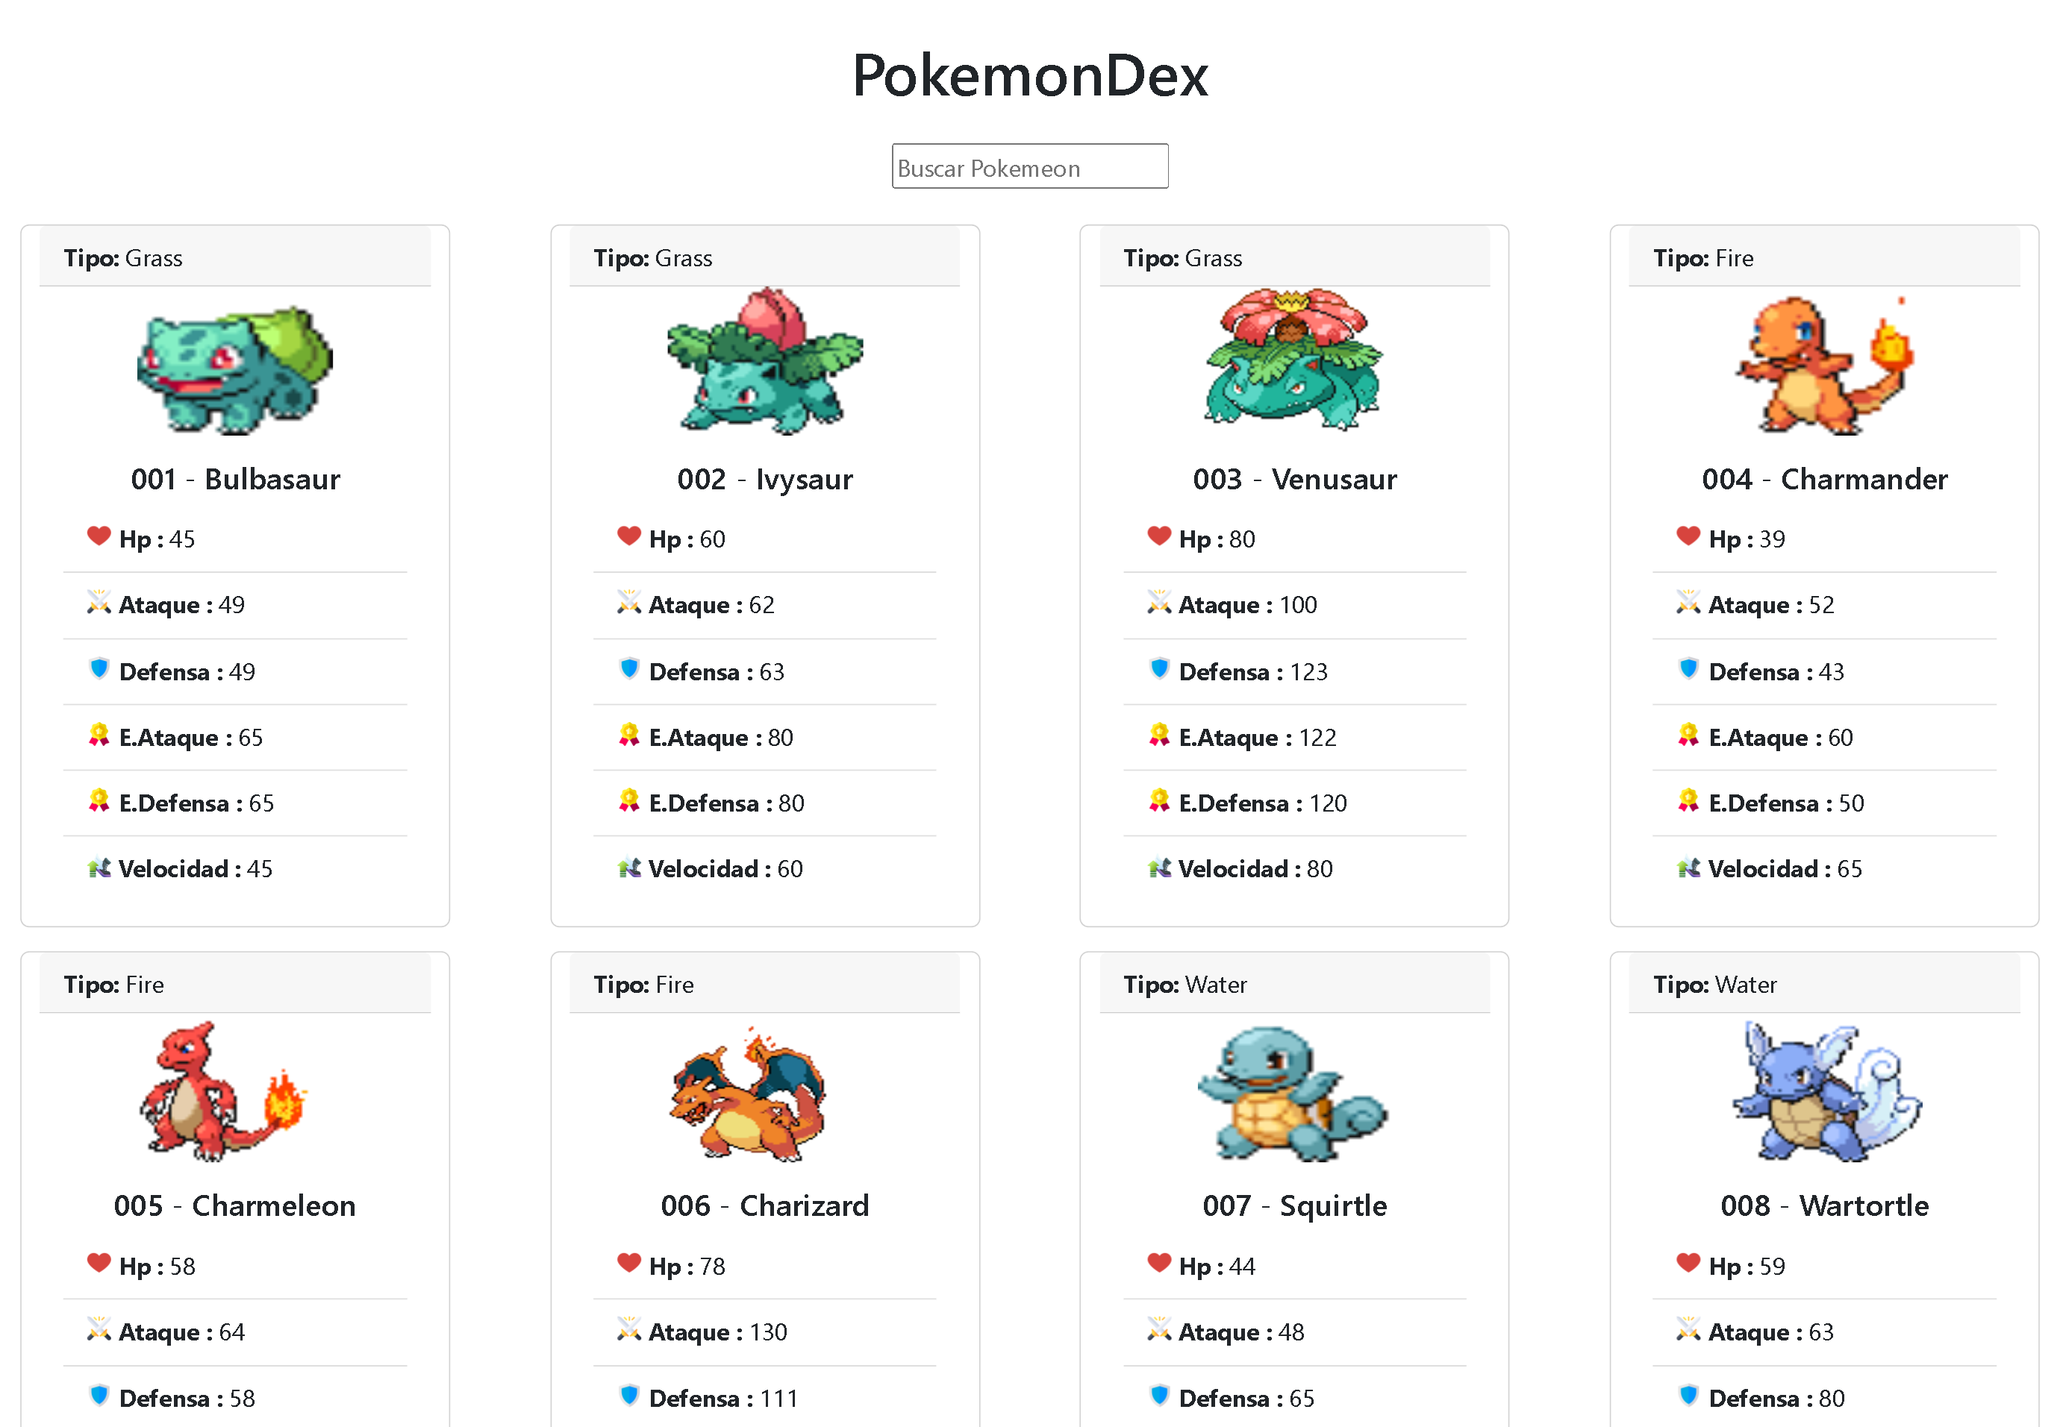
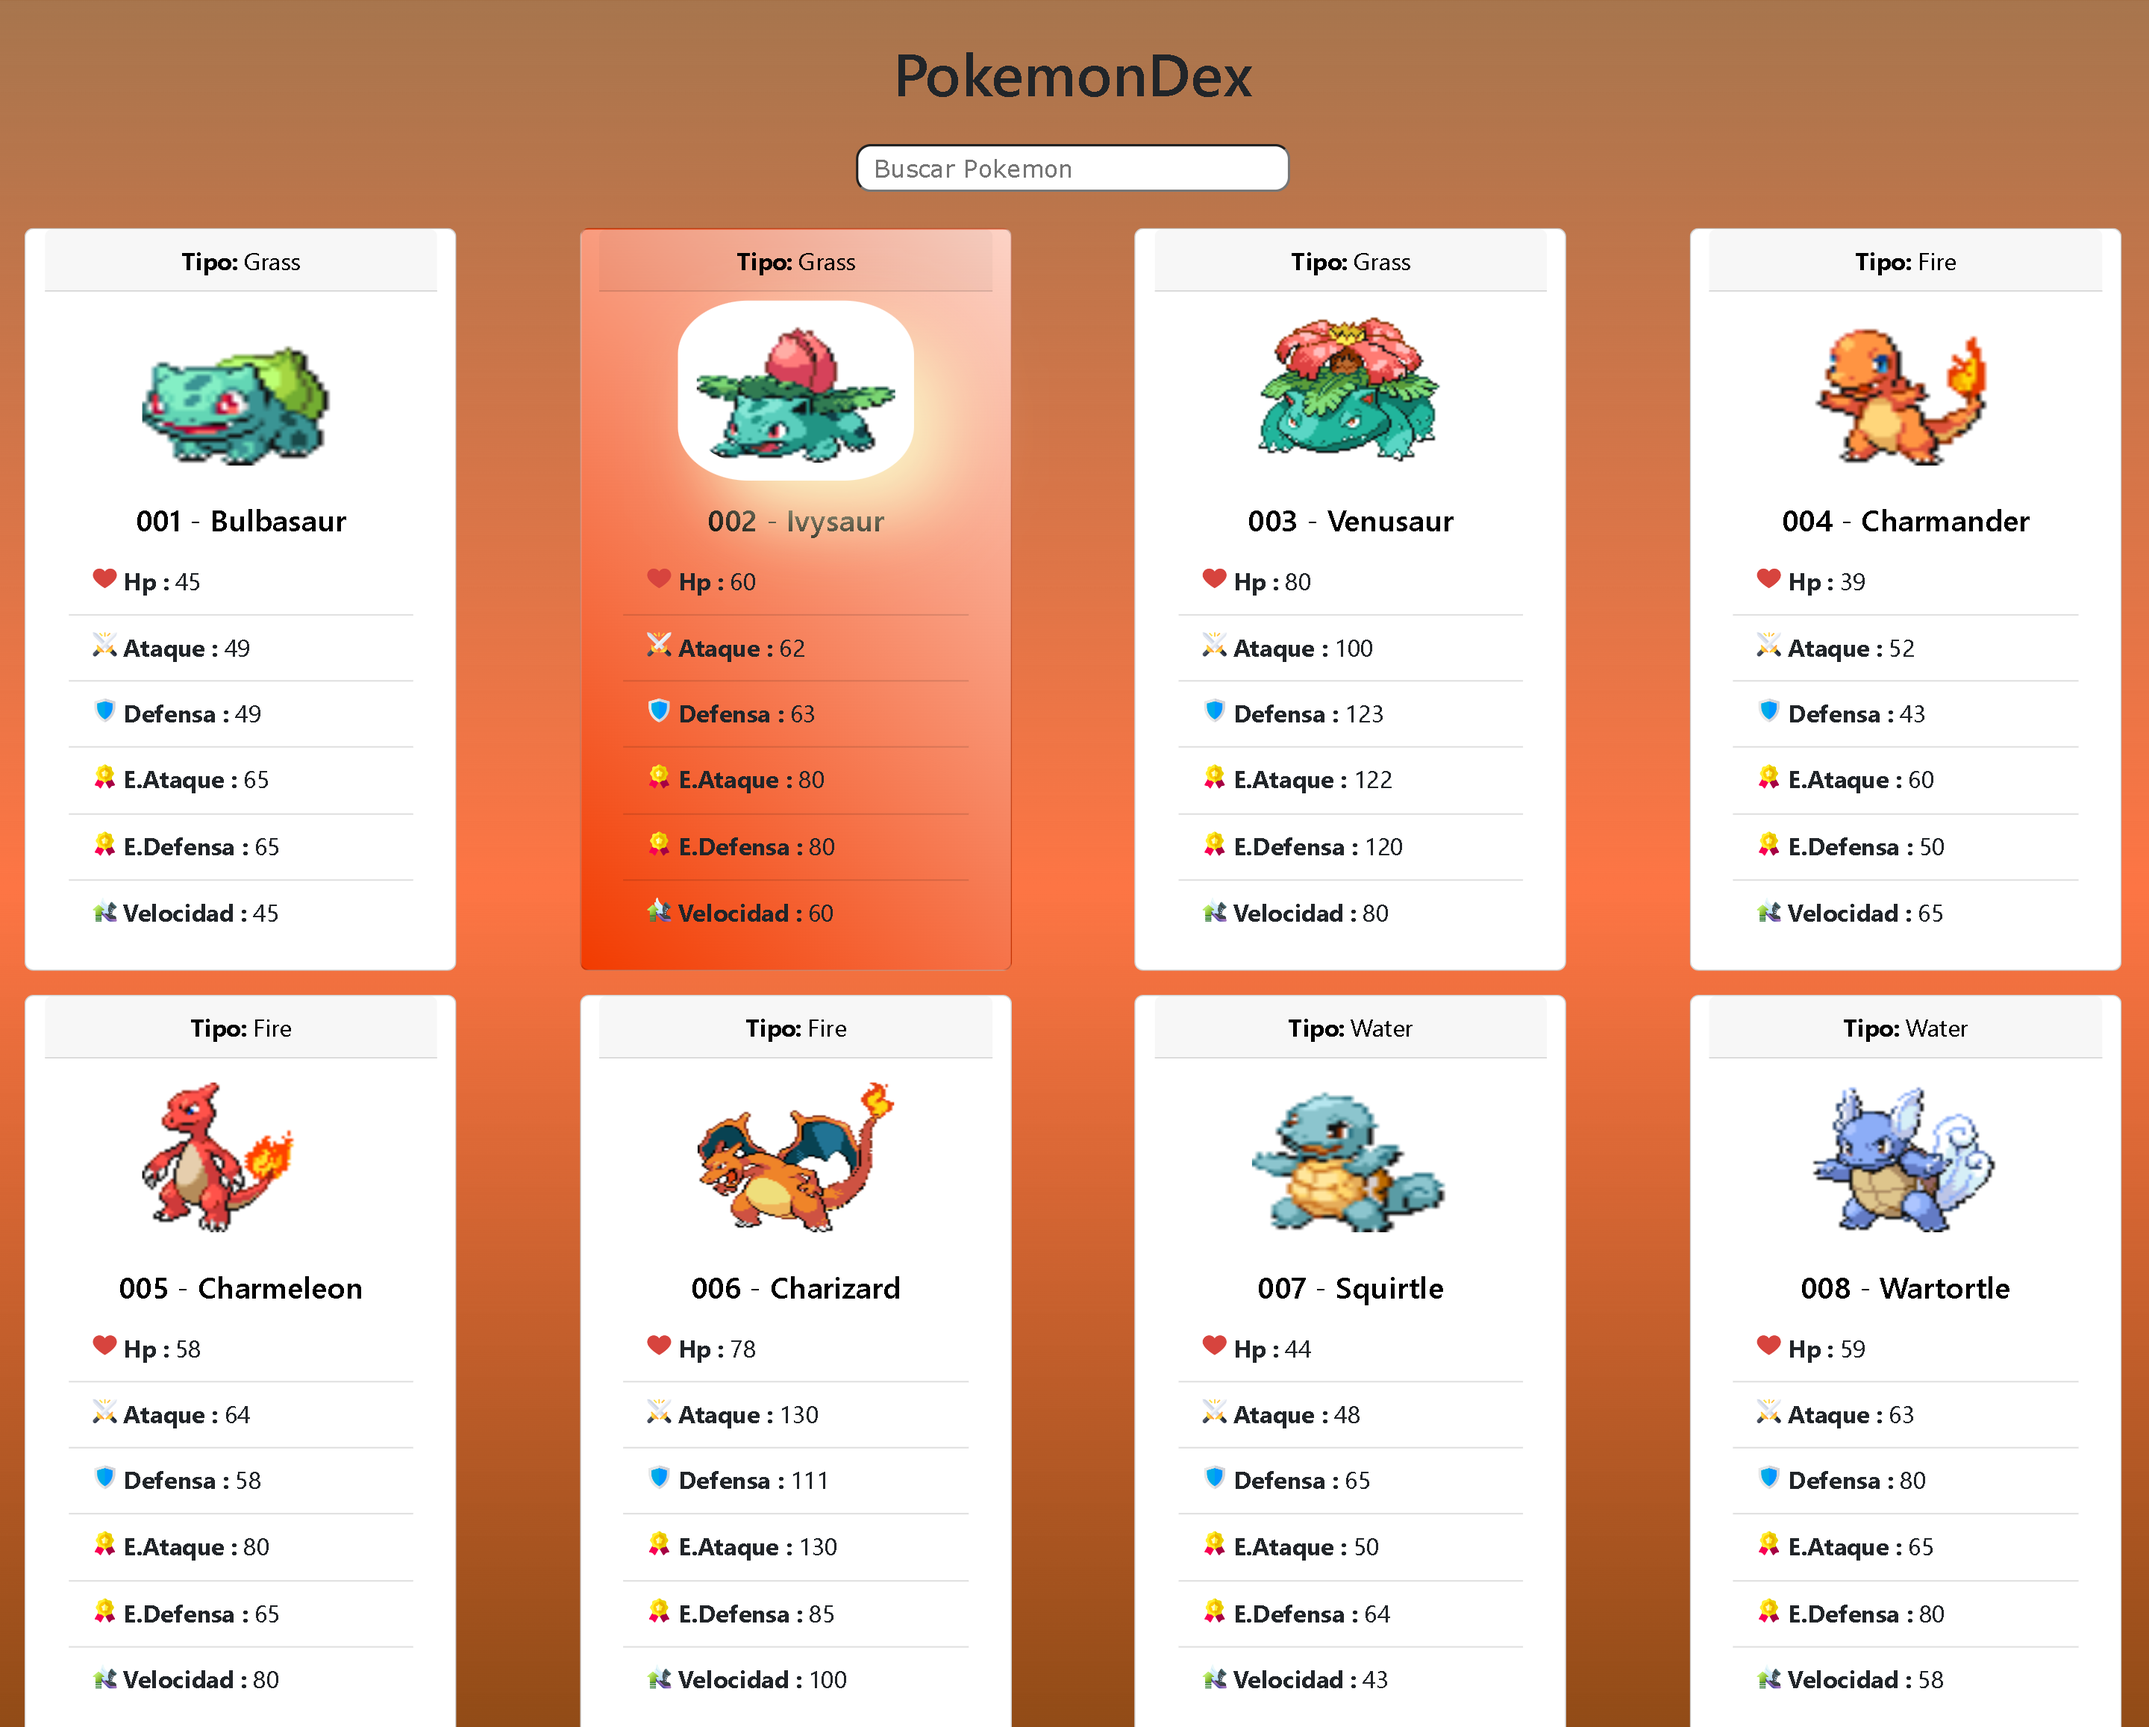
[ADD] Styles added

diff --git a/src/pages/Listado.tsx b/src/pages/Listado.tsx
@@ -6,6 +6,7 @@ import ListGroup from 'react-bootstrap/ListGroup';
 import Figure from 'react-bootstrap/Figure';
 // Llamando al Modelo 
 import "bootstrap/dist/css/bootstrap.min.css";
+import "../style.css";
 
 import { getPokemons } from "../controller/getPokemon";
 import { Pokemon } from "../models/pokemon.m"; 
@@ -36,8 +37,9 @@ const Listado = () => {
             <h1 className="text-center mt-4 mb-4">PokemonDex</h1>
             <header className="text-center mt-4 mb-4" >
                 <input 
+                    className="search-type"
                     value={query}
-                    placeholder="Buscar Pokemeon" 
+                    placeholder="Buscar Pokemon" 
                     onChange={(event) => setQuery(event.target.value.trim())}
                     type="text"
                 />
@@ -47,13 +49,13 @@ const Listado = () => {
                     <div className="row gap-3">
 
                         {filtrarpokemon?.slice(0,151).map((pokemon) => (
-                            <Card className="mx-auto" style={{ width: '18rem' }}>
-                            <Card.Header><b>Tipo:</b> {pokemon.type}</Card.Header>
-                            <Card.Img width="80" height="100" variant="top" src={pokemon.imggif} className="d-block mx-auto w-50"/>
+                            <Card className="mx-auto figure" style={{ width: '18rem' }}>
+                            <Card.Header className="text-center mb-2 type_pokemon"><b>Tipo:</b> {pokemon.type}</Card.Header>
+                            <Card.Img width="80" height="100" variant="top" src={pokemon.imggif} className="d-block mx-auto w-50 image mb-2 mt-2"/>
                             <Card.Body>
-                                <Card.Title className="text-center">{pokemon.id} - {pokemon.name}</Card.Title>
-                                <ListGroup variant="flush">
-                                    <ListGroup.Item>
+                                <Card.Title className="text-center type_pokemon">{pokemon.id} - {pokemon.name}</Card.Title>
+                                <ListGroup variant="flush" className="item-list-group">
+                                    <ListGroup.Item className="item-list">
                                         <Figure.Image
                                         width={16}
                                         height={16}
@@ -61,35 +63,35 @@ const Listado = () => {
                                         />
                                         <b> Hp :</b> {pokemon.hp}
                                     </ListGroup.Item>
-                                    <ListGroup.Item>
+                                    <ListGroup.Item className="item-list">
                                         <Figure.Image
                                         width={16}
                                         height={16}
                                         src="https://cdn-icons-png.flaticon.com/512/3522/3522092.png"
                                         />
                                         <b > Ataque :</b> {pokemon.attack}</ListGroup.Item>
-                                    <ListGroup.Item>
+                                    <ListGroup.Item className="item-list">
                                         <Figure.Image
                                         width={16}
                                         height={16}
                                         src="https://cdn-icons-png.flaticon.com/512/929/929429.png"
                                         />
                                         <b> Defensa :</b> {pokemon.defense}</ListGroup.Item>
-                                    <ListGroup.Item>
+                                    <ListGroup.Item className="item-list">
                                         <Figure.Image
                                         width={16}
                                         height={16}
                                         src="https://cdn-icons-png.flaticon.com/512/1671/1671062.png"
                                         />                                        
                                         <b> E.Ataque :</b> {pokemon.sp_atk}</ListGroup.Item>
-                                    <ListGroup.Item>
+                                    <ListGroup.Item className="item-list">
                                         <Figure.Image
                                         width={16}
                                         height={16}
                                         src="https://cdn-icons-png.flaticon.com/512/1671/1671062.png"
                                         />
                                         <b> E.Defensa :</b> {pokemon.sp_def}</ListGroup.Item>
-                                    <ListGroup.Item>
+                                    <ListGroup.Item className="item-list">
                                         <Figure.Image
                                         width={16}
                                         height={16}

diff --git a/src/style.css b/src/style.css
@@ -1,0 +1,44 @@
+body{
+    background: rgb(139,73,20);
+    background: linear-gradient(180deg, rgba(139,73,20,0.7570378493194152) 0%, rgba(253,100,45,0.8914916308320203) 50%, rgba(139,73,20,0.76) 100%);
+    height: 100vh;
+    max-height: 2500px;
+}
+
+.search-type{
+    border-radius: 10px;
+    font-family: 'Verdana';
+    padding: 2px 10px;
+    width: 290px;
+}
+
+.type_pokemon{
+    color: black;
+}
+.figure:hover{
+    background: linear-gradient(45deg, #f67c55, #f67c55);
+    background: linear-gradient(45deg, #f23b00, #fcd3c6);
+    color: #fff;
+}
+
+.image:hover{
+    transform: scale(1.2);
+    transition: 0.5s;
+    /* margin: 18px; */
+    background-color: white;
+    box-shadow: 20px 20px 40px #FAF3C4; 
+    border-radius: 30%;
+    padding: 10px; 
+}
+
+
+.item-list{
+    background-color: transparent;
+}
+
+.item-list:hover{
+    color: black;
+    background-color: white;
+    box-shadow: 20px 20px 40px #FAF3C4; 
+    border-radius: 10px;
+}

diff --git a/README.md b/README.md
@@ -9,7 +9,14 @@
 - TypeScript
 
 ---
-
-##  Vista Principal  ✔
+##  Vista Principal 🎯
+---
 
 <img width="800" src="src/img/img.png">
+
+---
+## Buscador Implementado 🎨 
+---
+
+<img width="800" src="src/img/img2.png">
+<img width="800" src="src/img/img3.png">
